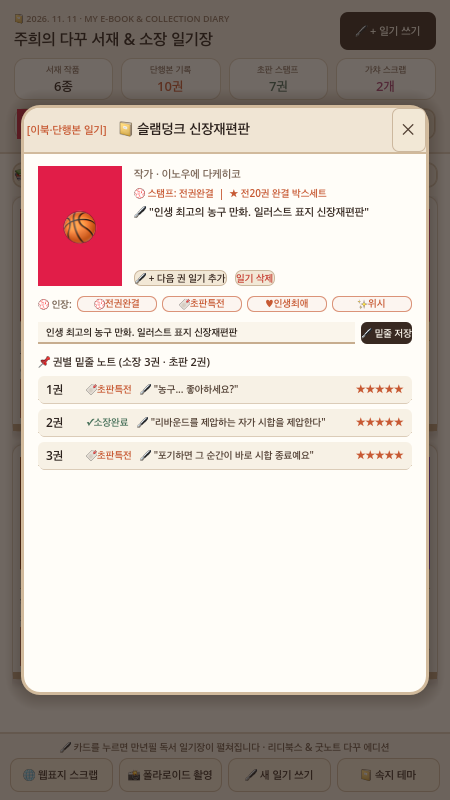
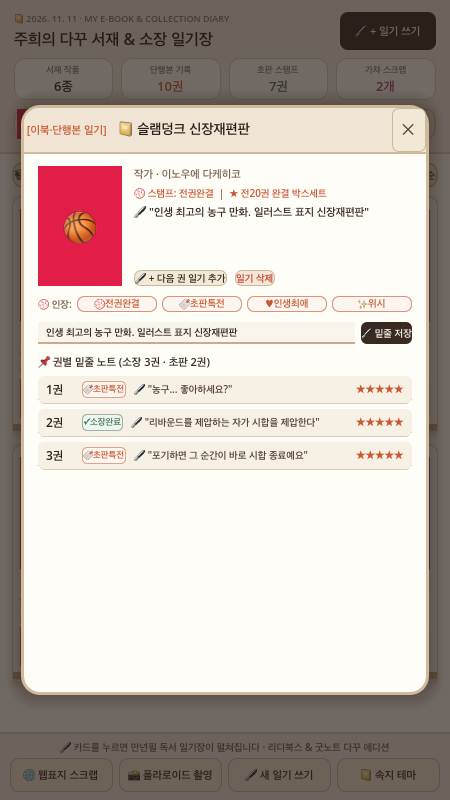
feat(game02): Sprint 10 volume first-edition stamp toggle, clickable spine shelf & sort toggle

Changed region(s): [[0.1867, 0.4688, 0.7156, 0.5938]]

diff --git a/game02/index.html b/game02/index.html
@@ -474,19 +474,28 @@
         function renderDiaryVolumes(item) {
             const list = document.getElementById('diary-volumes-list');
             list.innerHTML = '';
-            (item.volumes || []).forEach(v => {
+            (item.volumes || []).forEach((v, idx) => {
                 const row = document.createElement('div');
                 row.className = 'p-2.5 rounded-xl bg-[#faf6f0] border border-[#e5dac9] flex items-center justify-between text-xs';
+                const isFirst = v.status === 'first';
                 row.innerHTML = `
                     <div class="flex items-center gap-2.5 min-w-0">
                         <span class="serif-font font-bold text-[#2c221e] shrink-0">${v.vol}권</span>
-                        <span class="px-1.5 py-0.5 rounded bg-[#f3e3d3] text-[#c85a32] text-[10px] font-bold shrink-0">${v.status === 'first' ? '🔖 초판특전' : '✓ 소장'}</span>
+                        <button onclick="toggleVolStatus(${idx})" class="px-1.5 py-0.5 rounded border ${isFirst ? 'bg-[#fff8f5] border-[#c85a32]/50 text-[#c85a32]' : 'bg-[#eef5f0] border-[#4a6b5d]/50 text-[#4a6b5d]'} text-[10px] font-bold shrink-0 cursor-pointer">${isFirst ? '🔖 초판특전' : '✓ 소장완료'}</button>
                         <span class="serif-font text-[#5c4938] truncate">${v.quote ? `"${v.quote}"` : '메모 없음'}</span>
                     </div>
                     <span class="text-[#c85a32] font-bold shrink-0 ml-2">${'★'.repeat(v.rating || 5)}</span>
                 `;
                 list.appendChild(row);
             });
+        }
+
+        function toggleVolStatus(idx) {
+            const item = ITEMS.find(x => x.id === activeId);
+            if (!item || !item.volumes || !item.volumes[idx]) return;
+            item.volumes[idx].status = item.volumes[idx].status === 'first' ? 'owned' : 'first';
+            renderDiaryVolumes(item);
+            renderShelf();
         }
 
         function addVolumeInDiary() {

diff --git a/game02/SPRINT_LOG.md b/game02/SPRINT_LOG.md
@@ -5,6 +5,22 @@
 
 ---
 
+## 🚀 [Sprint 10] 권별 초판·소장 스탬프 원터치 토글(`toggle_volume_status`) & 책등 터치 바로가기 + 다독순 정렬(`SortBtn`)
+- **시각**: 2026-11-12 03:01 KST
+- **1. 다꾸러 3인 VOC (수집러 A · 가챠러 B · 미니멀러 C)**
+  - **다꾸러 A**: *"상단 미니 책등 진열대(`SpineShelfRow`)의 책등을 직접 클릭하면 바로 해당 작품의 펼친 일기장 모달이 열리면 리디북스·북적북적 책장처럼 훨씬 편하고 재미있을 것 같아요!"*
+  - **수집러 B**: *"일기장 모달에서 각 권의 `🔖초판특전` / `✓소장완료` 배지를 눌렀을 때 초판 여부를 원터치로 토글할 수 있게 해주세요!"*
+  - **미니멀러 C**: *"메인 서재 필터바에 `↕ 기본순 / 다독순` 정렬 토글 버튼을 넣어 다권 소장 시리즈부터 정렬해 볼 수 있게 해주세요!"*
+- **2. 기획 & UI/UX & Godot 4.6 개발 내역**
+  - **권별 초판 스탬프 토글(`toggle_volume_status`)**: `detail_modal.gd` 및 `index.html`에서 각 권의 `🔖초판특전` / `✓소장완료` 우표 버튼을 누르면 즉시 상태가 전환되며 상단 `초판 스탬프` 통계 및 로컬 JSON이 실시간 갱신됨
+  - **미니 책등 터치 바로가기(`SpineShelfRow` 클릭 이벤트)**: 상단 미니 책등 진열대의 개별 책등을 클릭하면 해당 작품의 독서노트 모달이 즉시 오픈됨
+  - **다독순/기본순 정렬(`SortBtn`)**: 필터바 우측에 `↕ 기본순` ↔ `↕ 다독순` 토글 버튼 탑재
+- **3. TDD & QA 검증**
+  - `tests/test_main_integration.gd`에 `toggle_volume_status(1)` 및 `_on_sort_btn_pressed()` 검증 추가 → 3개 헤드리스 테스트 스위트 전수 100% PASS
+  - Metal 렌더러 최신 스크린샷(`godot_app_screen.png`, `godot_modal_screen.png`) 캡처 및 GitHub 푸시 완료
+
+---
+
 ## 🚀 [Sprint 9] 미니 책등 진열대(`SpineShelf`) & 오늘의 만년필 밑줄 배너(`TodayQuote`) + 새 일기 쓰기 모달(`AddModal`) 전면 개편
 - **시각**: 2026-11-12 02:35 KST
 - **1. 다꾸러 3인 VOC (수집러 A · 가챠러 B · 미니멀러 C)**
